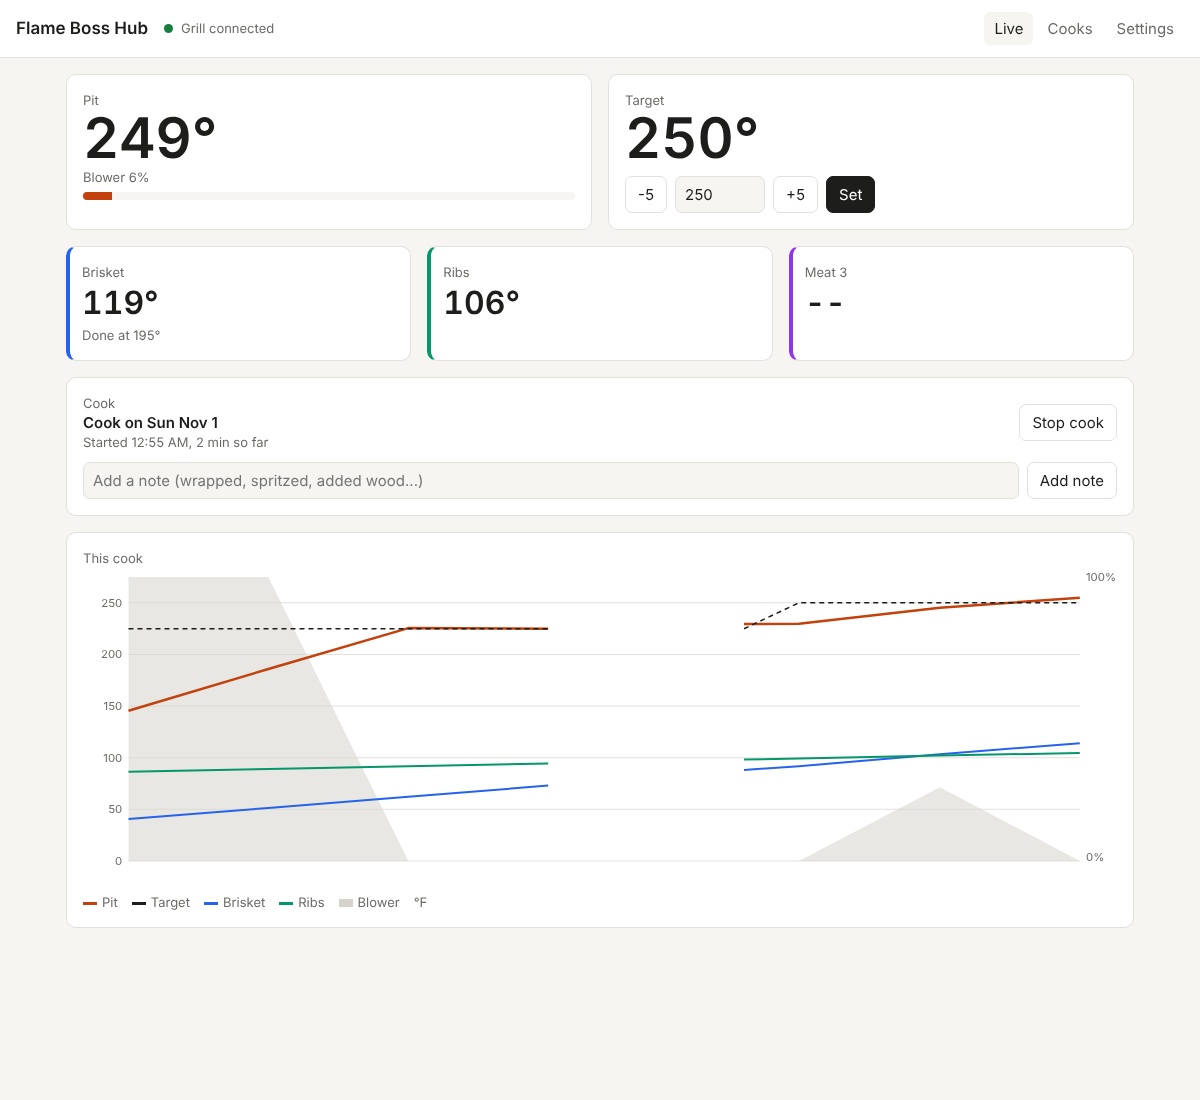
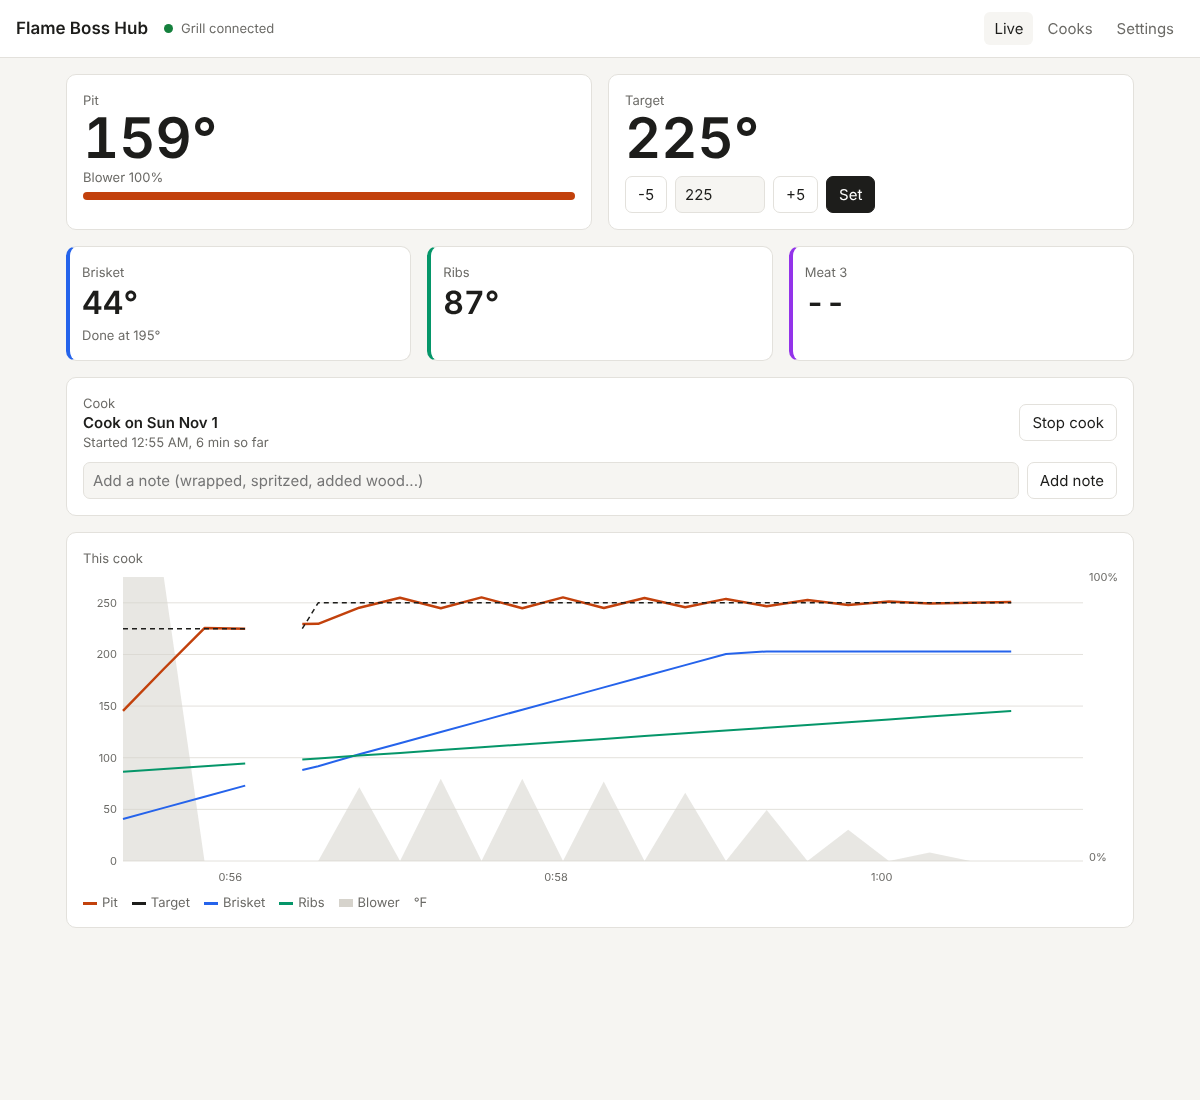
Phone layout: even spacing, readable chart labels, time ticks for short cooks
Claude-Session: https://claude.ai/code/session_01WkqvrswGRP9kq3L35Sj88a

diff --git a/web/index.html b/web/index.html
@@ -29,7 +29,8 @@ nav a.on { color: var(--ink); background: var(--bg); }
 .dot.on { background: var(--ok); }
 main { max-width: 1100px; margin: 0 auto; padding: 16px; }
 .panel { background: var(--panel); border: 1px solid var(--line); border-radius: 10px; padding: 16px; margin-bottom: 16px; }
-.grid { display: grid; gap: 16px; grid-template-columns: repeat(auto-fit, minmax(180px, 1fr)); }
+.grid { display: grid; gap: 16px; grid-template-columns: repeat(auto-fit, minmax(180px, 1fr)); margin-bottom: 16px; }
+.grid > .panel { margin-bottom: 0; }
 .label { color: var(--muted); font-size: 13px; }
 .big { font-size: 56px; font-weight: 600; line-height: 1.05; font-variant-numeric: tabular-nums; }
 .mid { font-size: 32px; font-weight: 600; font-variant-numeric: tabular-nums; }
@@ -47,7 +48,7 @@ textarea { width: 100%; min-height: 70px; }
 .meat { border-left: 4px solid var(--line); padding-left: 12px; }
 .bar { height: 8px; background: var(--bg); border-radius: 4px; overflow: hidden; margin-top: 6px; }
 .bar > div { height: 100%; background: var(--pit); width: 0; transition: width .5s; }
-.chart svg { width: 100%; height: 320px; display: block; }
+.chart svg { width: 100%; height: auto; display: block; }
 .chart .axis { stroke: var(--line); }
 .chart text { fill: var(--muted); font-size: 11px; }
 .legend { display: flex; gap: 14px; flex-wrap: wrap; font-size: 13px; color: var(--muted); margin-top: 6px; }
@@ -236,7 +237,7 @@ const series = [
 ];
 
 function drawChart(el, legendEl, samples, events, labels) {
-  const W = 1000, H = 320, L = 44, R = 36, T = 10, B = 26;
+  const W = Math.max(300, Math.round(el.clientWidth || 1000)), H = W < 600 ? 260 : 320, L = 40, R = 34, T = 10, B = 26;
   if (!samples.length) { el.innerHTML = '<p class="small">No readings yet.</p>'; legendEl.innerHTML = ""; return; }
   const t0 = new Date(samples[0].t).getTime(), t1 = Math.max(new Date(samples[samples.length - 1].t).getTime(), t0 + 60000);
   let lo = Infinity, hi = -Infinity;
@@ -246,7 +247,7 @@ function drawChart(el, legendEl, samples, events, labels) {
   const x = (t) => L + (t - t0) / (t1 - t0) * (W - L - R);
   const y = (v) => T + (1 - (v - lo) / (hi - lo)) * (H - T - B);
   const yb = (b) => T + (1 - b / 100) * (H - T - B);
-  let svg = `<svg viewBox="0 0 ${W} ${H}" preserveAspectRatio="none" role="img" aria-label="Temperature chart">`;
+  let svg = `<svg viewBox="0 0 ${W} ${H}" role="img" aria-label="Temperature chart">`;
   const step = (hi - lo) > 300 ? 100 : (hi - lo) > 120 ? 50 : 25;
   for (let v = lo; v <= hi; v += step) svg += `<line class="axis" x1="${L}" x2="${W - R}" y1="${y(v)}" y2="${y(v)}"/><text x="${L - 6}" y="${y(v) + 4}" text-anchor="end">${v}</text>`;
   const span = t1 - t0, hours = span / 3600000;
@@ -460,6 +461,7 @@ function route() {
   if (page === "live") renderLive();
 }
 window.addEventListener("hashchange", route);
+let resizeT; window.addEventListener("resize", () => { clearTimeout(resizeT); resizeT = setTimeout(route, 200); });
 setInterval(() => { if (!$("page-live").classList.contains("hidden")) renderLive(); else showControllerStatus(); }, 30000);
 connectLive();
 route();
